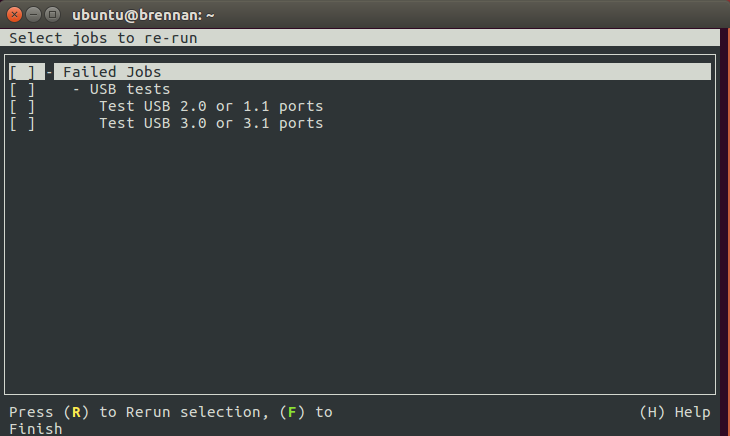
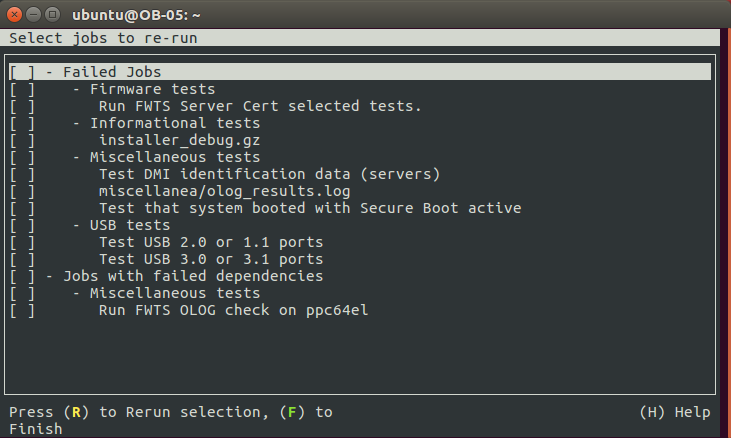
Clarify failure types in STG & replace greylist/whitelist terminology

Changed region(s): [[0.0, 0.0, 1.0, 1.0], [0.0, 0.2982, 0.0603, 0.7156]]

diff --git a/Self-Test_Guide.rst b/Self-Test_Guide.rst
@@ -53,7 +53,7 @@ DHCP
   Dynamic Host Control Protocol -- A method for providing IP
   addresses to the SUT and Targets.
 
-Greylist test
+Non-blocking test
   A test that must be performed but will not affect the
   granting of a certified status.
 
@@ -110,7 +110,7 @@ Test case
   include things such as "stress test of system memory" and "test the CPU
   for clock jitter."
 
-Whitelist test
+Blocking test
   A test that *must* pass for the SUT to be granted a certified status.
 
 Understanding the Certification Process
@@ -884,12 +884,22 @@ You can initiate a testing session in a server as follows:
    and respond `y` when asked if you want to resume the previous session.
 
 #. If any tests fail or do not run, a screen will appear that summarizes
-   those tests that failed or did not run. You can use this opportunity to
+   those tests that failed or did not run. The summary screen separates
+   failures into two categories:
+
+   * **Failed Jobs** -- These failures *might* be serious, or they might
+     not be. (This issue is addressed in more detail shortly.)
+
+   * **Jobs with Failed Dependencies** -- Failures in this category are
+     *not* serious. A failed dependency means that a precondition for even
+     running the test did not exist. For instance, in the below screen
+     shot, a test intended for IBM Power-architecture (ppc64el) computers
+     was not run because the SUT used an x86-64 CPU.
+
+   You can use this opportunity to
    re-run a test if you believe it failed for a transient reason, such as
    if your ``iperf3`` server crashed or was unavailable or if you forgot to
-   insert a USB drive. Note that the presence of a test in this list does
-   not necessarily mean that the test failed; tests that were skipped for
-   harmless reasons can also appear in this list. To re-run tests, use the
+   insert a USB drive. To re-run tests, use the
    arrow keys to highlight each test you want to re-run, press Spacebar to
    select it, and then press the **R** key to re-run the selected tests.
    If you don't want to re-run any tests, press **F** to finish.
@@ -926,17 +936,22 @@ green color, with the word "passed." Note, however, that *a failed test
 does not necessarily denote a failed certification*. Reasons a test might
 fail but still enable a certification to pass include the following:
 
--  A test may be a greylist test, as described in the `Ubuntu Server
+-  A test may be a non-blocking test, as described in the `Ubuntu Server
    Hardware Certification Coverage` document, available from
-   https://certification.canonical.com.
+   https://certification.canonical.com. In the preceding screen shot,
+   the Test That System Booted with Secure Boot Active is such a test.
 
 -  Some tests are known to produce occasional false positives -- that
-   is, they claim that problems exist when in fact they don't.
+   is, they claim that problems exist when in fact they don't. In the
+   preceding screen shot, the Run FWTS Server Cert Selected Test failure is
+   an example of this condition.
 
 -  Some test environments are sub-optimal, necessitating that specific
    tests be re-run. This can happen with network tests or if the tester
    forgot to insert a removable medium. In such cases, the specific test
-   can be re-run rather than the entire test suite.
+   can be re-run rather than the entire test suite. In the preceding screen
+   shot, the failed USB tests are examples; the tests failed because no USB
+   devices were inserted, which is an easily-corrected oversight.
 
 Consult your account manager if you have questions about specific test
 results.
